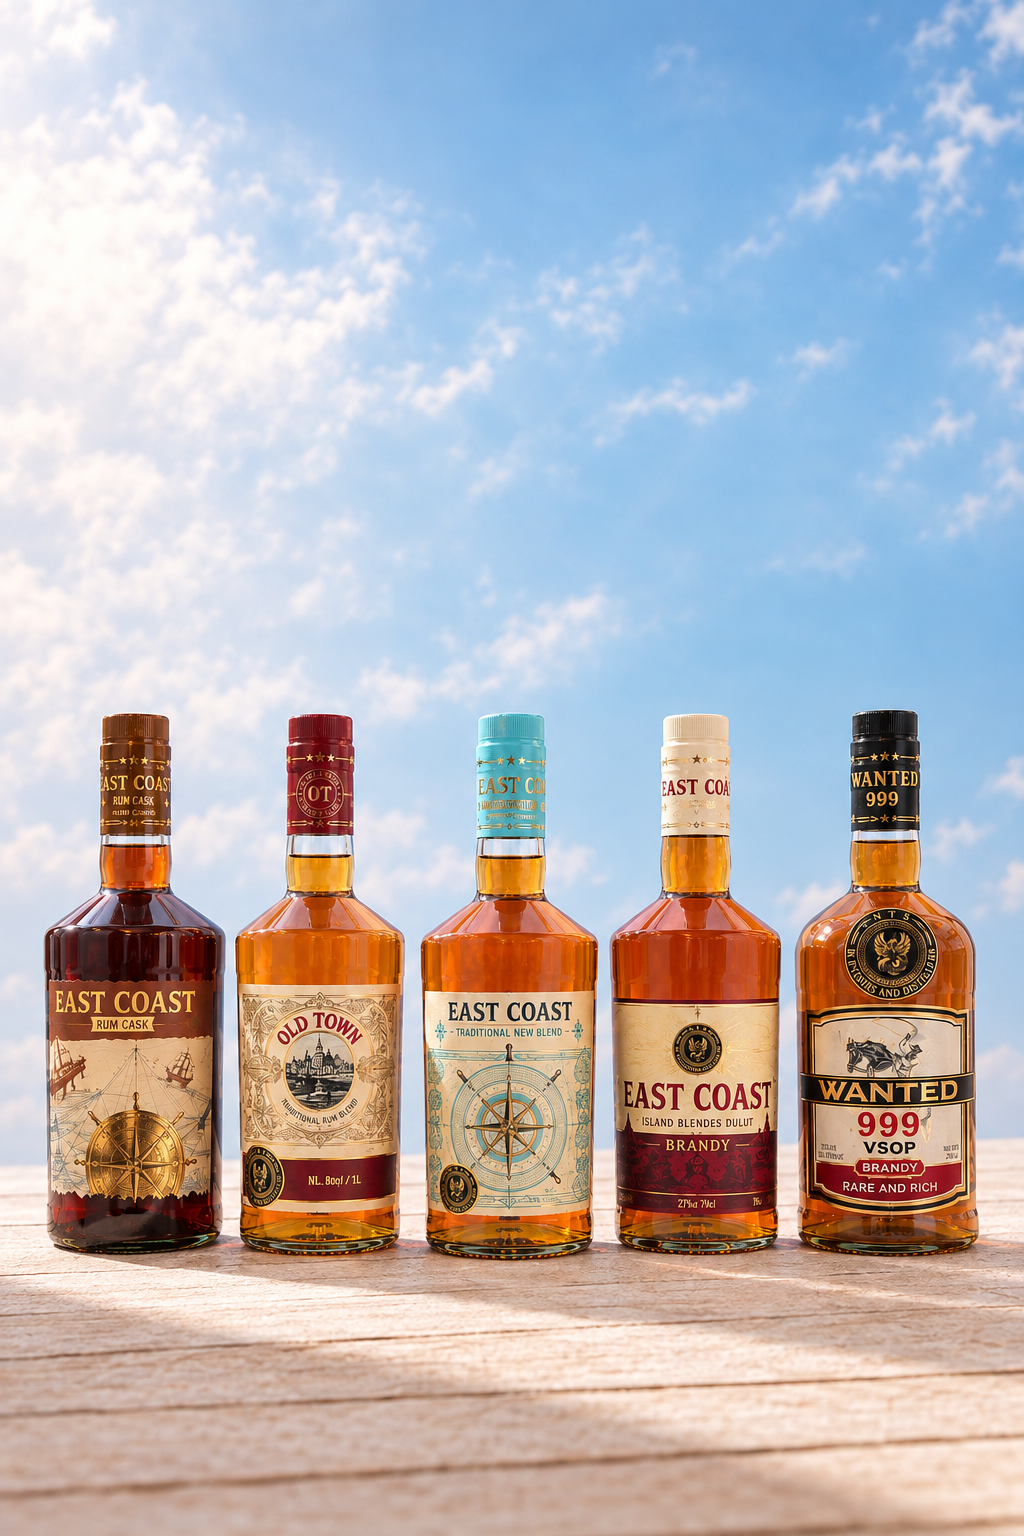
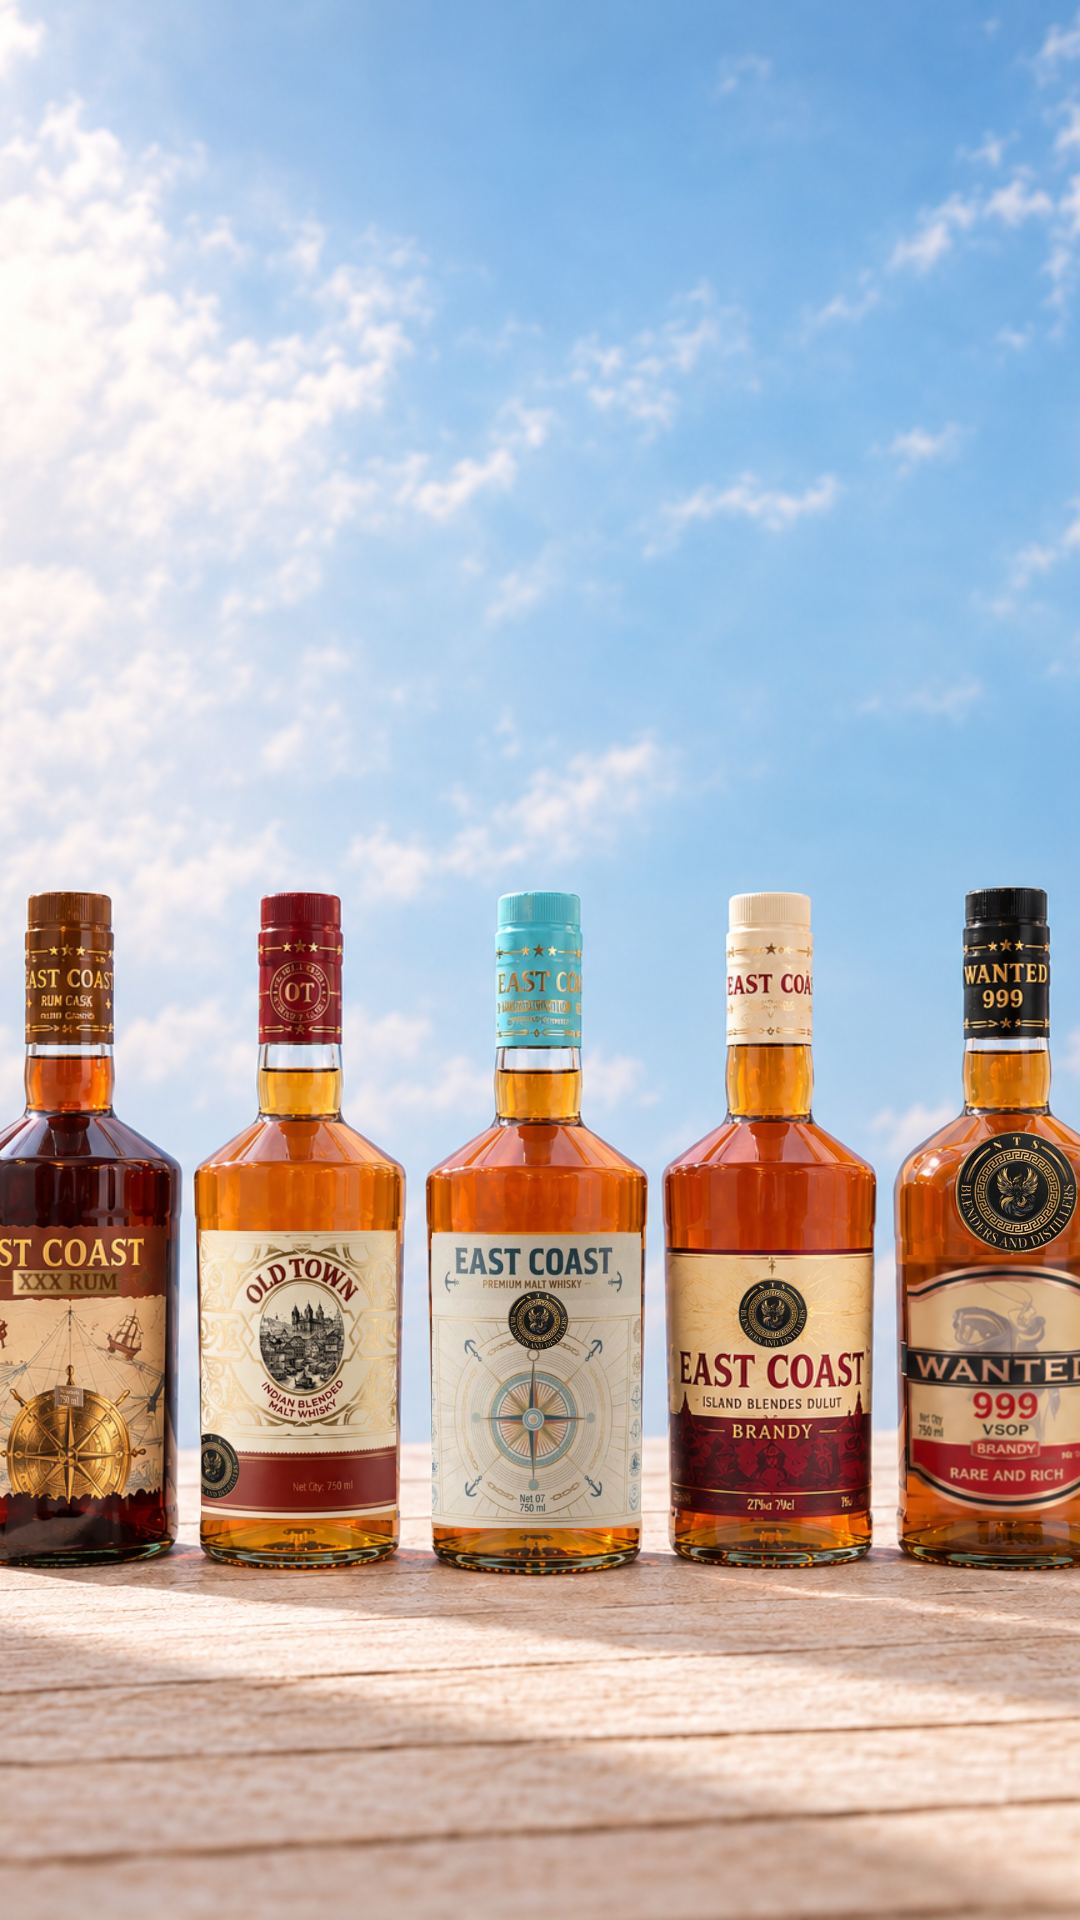
Update hero, About Us, and carousel imagery; fix bottle heights; remove hero gradient
- Replace desktop and mobile hero banner images with new bottle lineup photos
- Replace About Us bottle-collection image
- Replace Old Town bottle image (portfolio-images and product-showcase) and
  recrop it to match the other bottles' silhouette-to-canvas ratio, fixing a
  height mismatch in the carousel/portfolio rows
- Fix Zipper Orange rendering shorter than its sibling Zipper bottles in the
  diagonal carousel (items.js size config was 900 vs 1000 for siblings)
- Remove the two floating bottle images from the Partner Notes newsletter
  section, along with their now-unused mobile-detection hook and motion config
- Remove the black gradient overlays on the home hero banner

diff --git a/src/components/Newsletter.jsx b/src/components/Newsletter.jsx
@@ -1,28 +1,9 @@
-import React, { useEffect, useState } from 'react'
+import React, { useState } from 'react'
 import { motion } from 'framer-motion'
 import Reveal from './motion/Reveal'
 
-const newsletterBottleA = '/portfolio-images/old-town.png'
-const newsletterBottleB = '/bottle-2/bottle (1).png'
-
-function useIsMobile() {
-  const [isMobile, setIsMobile] = useState(false)
-
-  useEffect(() => {
-    const query = window.matchMedia('(max-width: 767px)')
-    const update = () => setIsMobile(query.matches)
-
-    update()
-    query.addEventListener('change', update)
-    return () => query.removeEventListener('change', update)
-  }, [])
-
-  return isMobile
-}
-
 export default function Newsletter() {
   const bottleEase = [0.22, 1, 0.36, 1]
-  const isMobile = useIsMobile()
   const [email, setEmail] = useState('')
   const [isSubmitted, setIsSubmitted] = useState(false)
   const [error, setError] = useState('')
@@ -42,44 +23,6 @@ export default function Newsletter() {
     setIsSubmitted(true)
   }
 
-  // One anchor bottle per side, pushed toward the edge so it clears the
-  // headline's max-width column instead of crowding behind the letters.
-  const leftBottles = [
-    {
-      image: newsletterBottleA,
-      className: 'hidden sm:block sm:left-[4px] sm:bottom-[22px] sm:w-[190px] md:left-[8px] md:bottom-[28px] md:w-[240px] lg:left-[16px] lg:bottom-[34px] lg:w-[290px] xl:left-[32px] xl:bottom-[38px] xl:w-[330px]',
-      rotation: -8,
-      x: isMobile ? -40 : -70,
-      scale: 0.85,
-      opacity: 0.98,
-      delay: 0,
-      float: [-6, 0, -6],
-      duration: 9,
-      z: 'z-[5]',
-      blur: '',
-    },
-  ]
-
-  const rightBottles = [
-    {
-      image: newsletterBottleB,
-      className: 'hidden sm:block sm:right-[4px] sm:bottom-[22px] sm:w-[190px] md:right-[8px] md:bottom-[28px] md:w-[240px] lg:right-[16px] lg:bottom-[34px] lg:w-[290px] xl:right-[32px] xl:bottom-[38px] xl:w-[330px]',
-      rotation: 8,
-      x: isMobile ? 40 : 70,
-      scale: 0.85,
-      opacity: 0.98,
-      delay: 0.12,
-      float: [0, -6, 0],
-      duration: 9.5,
-      z: 'z-[5]',
-      blur: '',
-    },
-  ]
-
-  const bottleShadow = isMobile
-    ? 'drop-shadow(0 14px 24px rgba(0,0,0,0.85))'
-    : 'drop-shadow(0 22px 46px rgba(0,0,0,0.95))'
-
   return (
     <section
       id="partner-notes"
@@ -88,28 +31,6 @@ export default function Newsletter() {
     >
       <div className="pointer-events-none absolute inset-y-0 left-0 z-10 w-[10vw] bg-gradient-to-r from-black/80 to-transparent" aria-hidden="true" />
       <div className="pointer-events-none absolute inset-y-0 right-0 z-10 w-[10vw] bg-gradient-to-l from-black/80 to-transparent" aria-hidden="true" />
-
-      {/* Floating Animated Bottles on Left & Right */}
-      {[...leftBottles, ...rightBottles].map((bottle, index) => (
-        <motion.div
-          key={`${bottle.className}-${index}`}
-          className={`pointer-events-none absolute ${bottle.z} ${bottle.className}`}
-          initial={{ opacity: 0, x: bottle.x, y: 24, rotate: bottle.rotation, scale: bottle.scale }}
-          whileInView={{ opacity: bottle.opacity, x: 0, y: 0, rotate: bottle.rotation, scale: 1 }}
-          transition={{ duration: 0.9, delay: bottle.delay, ease: bottleEase }}
-          viewport={{ once: true, amount: 0.3 }}
-        >
-          <motion.img
-            src={bottle.image}
-            alt=""
-            aria-hidden="true"
-            className={`w-full select-none object-contain will-change-transform ${bottle.blur}`}
-            animate={{ y: bottle.float }}
-            transition={{ duration: bottle.duration, ease: 'easeInOut', repeat: Infinity, delay: 1.05 + bottle.delay }}
-            style={{ filter: bottleShadow }}
-          />
-        </motion.div>
-      ))}
 
       {/* Center Main Stage Content */}
       <div className="relative z-20 mx-auto w-full max-w-[900px] text-center">

diff --git a/src/index.css b/src/index.css
@@ -3181,9 +3181,7 @@ a {
   inset: 0;
   z-index: 1;
   pointer-events: none;
-  background:
-    linear-gradient(90deg, rgba(0,0,0,.58) 0%, rgba(0,0,0,.24) 32%, transparent 68%),
-    linear-gradient(180deg, rgba(0,0,0,.12) 0%, transparent 44%, rgba(0,0,0,.12) 100%);
+  background: transparent;
 }
 
 .home-hero-content {
@@ -3504,13 +3502,11 @@ a {
   }
 
   [data-od-id="hero-single-image"]::before {
-    background:
-      linear-gradient(90deg, rgba(0,0,0,.34) 0%, rgba(0,0,0,.12) 34%, transparent 72%),
-      linear-gradient(180deg, rgba(0,0,0,.06) 0%, transparent 52%, rgba(0,0,0,.08) 100%);
+    background: transparent;
   }
 
   [data-od-id="hero-single-image"] img {
-    object-position: center 25%;
+    object-position: center bottom;
   }
 
   .home-hero-content {
@@ -3686,7 +3682,7 @@ a {
   }
 
   [data-od-id="hero-single-image"] img {
-    object-position: center top;
+    object-position: center bottom;
   }
 
   .home-hero-content {

diff --git a/src/components/BannerSection.jsx b/src/components/BannerSection.jsx
@@ -26,7 +26,7 @@ export default function BannerSection() {
         </picture>
       </div>
 
-      <div className="hero-vertical-shade pointer-events-none absolute inset-0 bg-[linear-gradient(180deg,rgba(0,0,0,0.2)_0%,rgba(0,0,0,0)_38%,rgba(255,255,255,0.12)_100%)]" />
+      <div className="hero-vertical-shade pointer-events-none absolute inset-0 bg-[linear-gradient(180deg,rgba(255,255,255,0)_0%,rgba(255,255,255,0)_38%,rgba(255,255,255,0.12)_100%)]" />
 
       <div className="home-hero-content relative z-10 flex h-full items-center px-4 py-10 sm:px-8 sm:py-14 lg:px-12 lg:py-16">
         <div className="home-hero-copy max-w-[860px]">

diff --git a/src/components/carousel/items.js b/src/components/carousel/items.js
@@ -13,7 +13,7 @@ const ART = {
   'canacona-blast-berry-vodka': { size: 1000, ratio: r(1200, 1900) },
   'canacona-zimmy-pop-kiwi-vodka': { size: 1000, ratio: r(1200, 1900) },
   'canacona-tangy-twist-orange-vodka': { size: 1000, ratio: r(1200, 1900) },
-  'zipper-orange-vodka': { size: 900, ratio: r(925, 1152) },
+  'zipper-orange-vodka': { size: 1000, ratio: r(925, 1152) },
   'zipper-lemon-lime-vodka': { size: 1000, ratio: r(1200, 1900) },
   'zipper-lychee-vodka': { size: 1000, ratio: r(1200, 1900) },
 }
